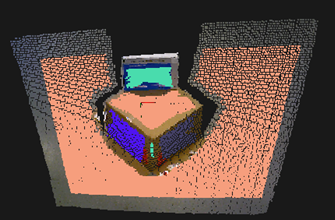
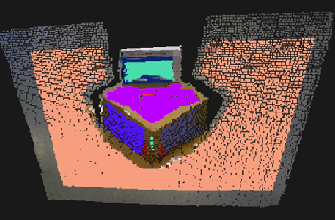
changed dbscan to flood fill

diff --git a/report/Report.tex b/report/Report.tex
@@ -518,12 +518,12 @@ The PCA was never implemented as it was found that by increasing the minimum num
 
 \begin{figure}[p]
 	\centering     %%% not \center
-	\subfloat[Box before applying DBScan algorithm in normal space]{
+	\subfloat[Box before applying Flood Fill algorithm]{
 		\label{fig:6box_before}
 		\includegraphics[width=0.4\textwidth]{6box_before.PNG}
 	}
 	\;
-	\subfloat[Box after applying DBScan algorithm in normal space]{
+	\subfloat[Box after applying Flood Fill algorithm]{
 		\label{fig:6box_after}
 		\includegraphics[width=0.4\textwidth]{6box_after.PNG}
 	}
@@ -534,19 +534,21 @@ The PCA was never implemented as it was found that by increasing the minimum num
 
 \begin{figure}[p]
 	\centering
-	\subfloat[Result of Flood Fill, $\epsilon=0.2, \gamma=50, \sigma=0.8$] 
-	{
-		\label{fig:dbscan_planes}
-		\includegraphics[width=0.4\textwidth]{floodFill.png}
-	}
-	\;
-	\subfloat[of a laboratory in xyz space. Each white board is considered a separate cluster. Distant objects coloured in blue.] {
-		\label{fig:table_dbscan}
-		\includegraphics[width=0.4\textwidth]{6table_dbscan.png}
+	\label{fig:dbscan_planes}
+ 	\includegraphics[width=0.8\textwidth]{floodFill.png}
+	% \subfloat[Result of Flood Fill, $\epsilon=0.2, \gamma=50, \sigma=0.8$] 
+	% {
+	% 	\label{fig:dbscan_planes}
+	% 	\includegraphics[width=0.4\textwidth]{floodFill.png}
+	% }
+	% \;
+	% \subfloat[of a laboratory in xyz space. Each white board is considered a separate cluster. Distant objects coloured in blue.] {
+	% 	\label{fig:table_dbscan}
+	% 	\includegraphics[width=0.4\textwidth]{6table_dbscan.png}
 
-	}
-	\caption{Images}
-	\label{fig:DBSCAN_LAB}
+	% }
+	\caption{Result of Flood Fill, $\epsilon=0.2, \gamma=50, \sigma=0.8$}
+	\label{fig:flood_fill}
 
 \end{figure}
 
@@ -1395,11 +1397,11 @@ When mounted on an airframe the implementation successfully controled the yaw of
 % An immediate solution to this problem is to use a platform with a dedicated SPI bus or install a fast peripheral SPI expansion card. If possible, decreasing the buffer size of both SPI and USB will reduce latency. Additionally, by using an RGB-D camera with a wider field of view should allow the system to maintain vision for longer. Further, using a smaller convolution kernel for normal estimation would allow more of the RGB-D image to be utilised. Another possibility is to use more accurate gyroscopes and accelerometers as when vision is lost, the system would take longer to lose state.   
 
 \section{Further Work}
-Although many man hours were spent trying to implement our system on an embedded ARM platform during the course of this project, significant problems surrounding compatibility between PCL and OpenNI (the frame work linking the Xtion depth camera with PCL) . This is currently in version 1.6. Version 2.0 will be released soon and is intended to increase compatibility with arm platforms. This will allow a much lighter setup with more options of development boards with low level outputs, which would also solve some of the latency issues that we had. 
+Although many man hours were spent trying to implement our system on an embedded ARM platform during the course of this project, significant problems surrounding compatibility between PCL and OpenNI (the frame work linking the Xtion depth camera with PCL) . This is currently in version 1.6. Version 2.0 will be released soon and is intended to increase compatibility with ARM platforms. This will allow a much lighter setup with more options of development boards with low level outputs, which would also solve some of the latency issues that we had. 
 
-The algorithms described in this document would work much better if the inertial sensors were of high quality, as at the moment their noise causes the state estimate to diverge soon after observability of the planes is lost. Implementations utilising high quality sensors would yield more interesting results, as they could lose sight of previously registered planes and register new ones with an acceptable variance in their location to make full SLAM a possibility. 
+The system described in this document would have a higher performance work if the inertial sensors were of high quality. Currently their noise causes the state estimate to diverge soon after observability of the planes is lost. Implementations utilising high quality sensors would yield more interesting results, as they could lose sight of previously registered planes and register new ones with an acceptable variance in their location to make full SLAM a possibility. 
 
-There is also hope in the near future for consumer grade time of flight RGB-D camera to be widely available, due to these being used in the XBox One console. These will have less quantisation noise, and a much wider field of view. This would solve a number of issues that we had regarding losing sight of known planes before observing new ones to register, as well as removing much of the noise from the raw depth data. 
+There is also hope in the near future for consumer grade time of flight RGB-D cameras to be widely available, due to these being used in the upcoming Microsoft XBox One console. Key benefits of these cameras will have less quantisation noise, and a much wider field of view. This would solve a number of issues that we had regarding losing sight of known planes before observing new ones to register, as well as removing much of the noise from the raw depth data. 
 
 
 
